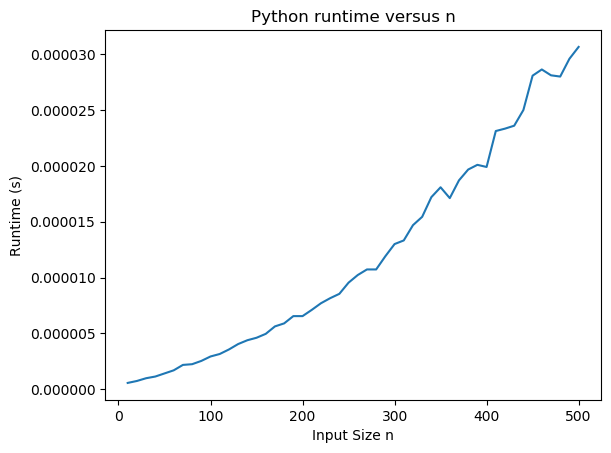
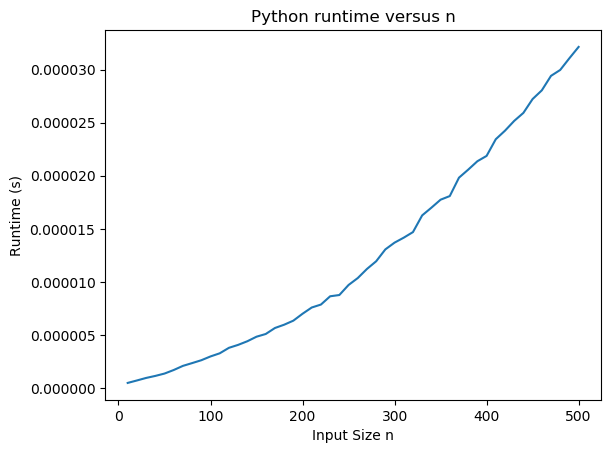
Completed the project

diff --git a/Algorithms/scratch.py b/Algorithms/scratch.py
@@ -46,49 +46,95 @@ print(listToSort)
 
 
 
-def merge_sort(cur_list):
-    n=len(cur_list)
+# def merge_sort(cur_list):
+#     n=len(cur_list)
     
-    #If the list is longer than a single element, split it and recursivly solve
-    if n != 1:
-        list_1 = merge_sort(cur_list[0:n//2])
-        list_2 = merge_sort(cur_list[n//2:n])
+#     #If the list is longer than a single element, split it and recursivly solve
+#     if n != 1:
+#         list_1 = merge_sort(cur_list[0:n//2])
+#         list_2 = merge_sort(cur_list[n//2:n])
         
-        #Get the length of each sublist and set up the indexes
-        n_1 = len(list_1)
-        n_2 = len(list_2)
-        idx_1 = 0
-        idx_2 = 0
-        idx = 0
+#         #Get the length of each sublist and set up the indexes
+#         n_1 = len(list_1)
+#         n_2 = len(list_2)
+#         idx_1 = 0
+#         idx_2 = 0
+#         idx = 0
         
-        #Go through each sublist, merging them into the main list
-        while (idx_1<n_1) & (idx_2 <n_2):
-            if list_1[idx_1] < list_2[idx_2]:
-               cur_list[idx] = list_1[idx_1]
-               idx_1 += 1
+#         #Go through each sublist, merging them into the main list
+#         while (idx_1<n_1) & (idx_2 <n_2):
+#             if list_1[idx_1] < list_2[idx_2]:
+#                cur_list[idx] = list_1[idx_1]
+#                idx_1 += 1
+#             else:
+#                 cur_list[idx] = list_2[idx_2]
+#                 idx_2 += 1
+#                 pass
+#             idx += 1
+#             pass
+        
+#         #Finish the first list if not done already
+#         while idx_1 < n_1:
+#             cur_list[idx] = list_1[idx_1]
+#             idx += 1
+#             idx_1 += 1
+#             pass
+        
+#         #finish the second list if not done already
+#         while idx_2 < n_2:
+#             cur_list[idx] = list_2[idx_2]
+#             idx += 1
+#             idx_2 += 1
+            
+#             pass
+#         pass
+    
+#     return cur_list
+
+# merge_sort(listToSort);
+
+def QuickSort(listToSort, i=0, j=None):
+    # Set default value for j if None.
+    if j == None:
+        j = len(listToSort)
+        pass
+
+    if i!=j:
+        #Compute the median value of the values at i, j, and (j-i)//2
+        #Swap to the back of the list
+        val_first = listToSort[i]
+        val_mid = listToSort[(j-i)//2]
+        val_last = listToSort[j-1]
+        if val_first <= val_mid <= val_last:
+            pivot = val_mid
+            listToSort[(j-i)//2] = val_last
+            listToSort[j-1] = pivot
+        elif val_first <= val_last <= val_mid:
+            pivot = val_last
+        else:
+            pivot = val_first
+            listToSort[i] = val_last
+            listToSort[j-1] = pivot
+            pass
+        
+        #Partition the list
+        idx_small = i
+        idx_pivot = j-1
+        while idx_small < idx_pivot:
+            if listToSort[idx_small] > pivot:
+                listToSort[idx_pivot] = listToSort[idx_small]
+                listToSort[idx_small] = listToSort[idx_pivot -1]
+                listToSort[idx_pivot - 1] = pivot
+                idx_pivot -= 1
             else:
-                cur_list[idx] = list_2[idx_2]
-                idx_2 += 1
+                idx_small += 1
                 pass
-            idx += 1
-            pass
-        
-        #Finish the first list if not done already
-        while idx_1 < n_1:
-            cur_list[idx] = list_1[idx_1]
-            idx += 1
-            idx_1 += 1
-            pass
-        
-        #finish the second list if not done already
-        while idx_2 < n_2:
-            cur_list[idx] = list_2[idx_2]
-            idx += 1
-            idx_2 += 1
             
             pass
+        print(listToSort)
+        listToSort = QuickSort(listToSort, i, idx_pivot)
+        listToSort = QuickSort(listToSort, idx_pivot + 1, j)
         pass
-    
-    return cur_list
+    return listToSort
 
-merge_sort(listToSort);
+QuickSort(listToSort)

diff --git a/Algorithms/project1_updated.py b/Algorithms/project1_updated.py
@@ -134,6 +134,43 @@ def QuickSort(listToSort, i=0, j=None):
     # Set default value for j if None.
     if j == None:
         j = len(listToSort)
+        pass
+
+    if i!=j:
+        #Compute the median value of the values at i, j, and (j-i)//2
+        #Swap to the back of the list
+        val_first = listToSort[i]
+        val_mid = listToSort[(j-i)//2]
+        val_last = listToSort[j-1]
+        if val_first <= val_mid <= val_last:
+            pivot = val_mid
+            listToSort[(j-i)//2] = val_last
+            listToSort[j-1] = pivot
+        elif val_first <= val_last <= val_mid:
+            pivot = val_last
+        else:
+            pivot = val_first
+            listToSort[i] = val_last
+            listToSort[j-1] = pivot
+            pass
+        
+        #Partition the list
+        idx_small = i
+        idx_pivot = j-1
+        while idx_small < idx_pivot:
+            if listToSort[idx_small] > pivot:
+                listToSort[idx_pivot] = listToSort[idx_small]
+                listToSort[idx_small] = listToSort[idx_pivot -1]
+                listToSort[idx_pivot - 1] = pivot
+                idx_pivot -= 1
+            else:
+                idx_small += 1
+                pass
+            
+            pass
+        listToSort = QuickSort(listToSort, i, idx_pivot)
+        listToSort = QuickSort(listToSort, idx_pivot + 1, j)
+        pass
     return listToSort
 
 """
